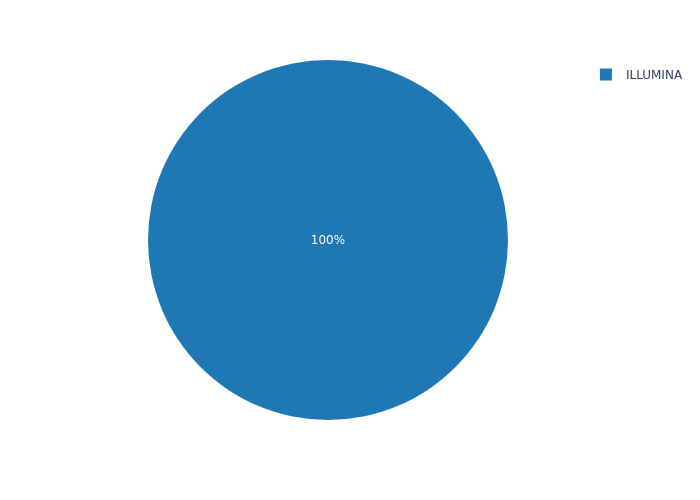
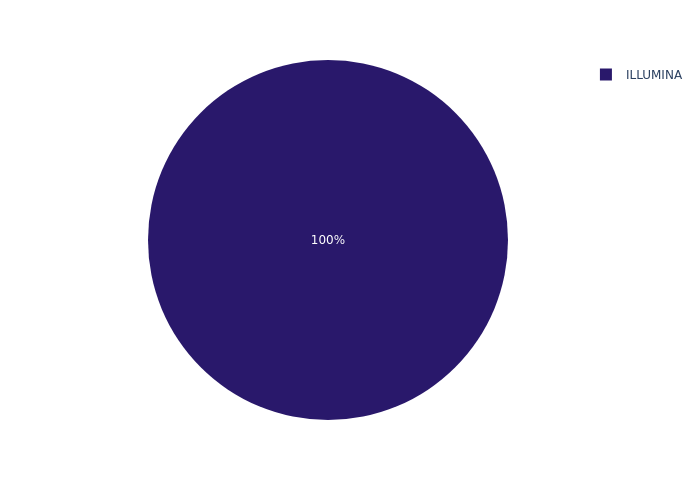
sara

Changed region(s): [[0.21, 0.12, 0.75, 0.84], [0.84, 0.12, 0.87, 0.18]]

diff --git a/report_generation_module.py b/report_generation_module.py
@@ -14,6 +14,7 @@ from geopy.exc import GeocoderTimedOut
 from geopy.geocoders import Nominatim
 from collections import Counter
 from pycountry_convert import country_alpha2_to_continent_code, country_name_to_country_alpha2
+from matplotlib import pyplot as plt
 
 
 def report_generation(user_session):
@@ -145,11 +146,11 @@ def IDs_number(e_df):
     return IDs_number
 
 
-def sample_number(user_session, e_df):
+def sample_number(user_session, e_df, color_palette):
     sample_number_series = e_df.groupby(['study_accession'])['run_accession'].count()
     sample_number_df = pd.DataFrame(sample_number_series).reset_index()
     sample_number_df.columns = ['Project', 'Number of samples']
-    fig = px.bar(sample_number_df, x="Project", y="Number of samples", color_discrete_sequence=px.colors.qualitative.Dark24).update_layout(yaxis_title="Number of samples") 
+    fig = px.bar(sample_number_df, x="Project", y="Number of samples", color_discrete_sequence=color_palette).update_layout(yaxis_title="Number of samples") 
     fig.write_image(os.path.join(user_session, "sample_number.png"))
 
 
@@ -200,7 +201,7 @@ def IDs_dates(user_session, e_df):
         pass
         
 
-def publication_title(user_session, p_df):
+def publication_title(user_session, p_df,color_palette):
     p_list_project = p_df.input_accession_id.values.tolist()
     p_list_title = p_df.title.values.tolist()
     d = {
@@ -212,45 +213,45 @@ def publication_title(user_session, p_df):
     df.to_excel(file_name)
 
 
-def scientific_name_pie(user_session, e_df):
+def scientific_name_pie(user_session, e_df, color_palette):
     col = ['scientific_name']
     if pd.Series(['scientific_name']).isin(e_df.columns).all():
         scientific_name_df = e_df['scientific_name'].value_counts()
         df = pd.DataFrame(scientific_name_df).reset_index()
         df.columns = ['Scientific name', 'Counts']
-        fig = px.pie(df, values='Counts', names='Scientific name', color_discrete_sequence=px.colors.qualitative.D3)
+        fig = px.pie(df, values='Counts', names='Scientific name', color_discrete_sequence=color_palette)
         fig.write_image(os.path.join(user_session, "scientific_name_pie.png"))
     else:
         pass
 
 
-def scientific_name_bar(user_session, e_df):
+def scientific_name_bar(user_session, e_df, color_palette):
     col = ['scientific_name']
     if pd.Series(['scientific_name']).isin(e_df.columns).all():
         scientific_name_IDs_df = e_df.groupby(['study_accession'])['scientific_name'].value_counts()
         df_bar = scientific_name_IDs_df.rename('count').reset_index()
         df_bar.columns = ['Project', 'Scientific name', 'Counts']
         fig = px.histogram(df_bar, x="Project", y="Counts",
-                color='Scientific name', color_discrete_sequence=px.colors.qualitative.D3, 
+                color='Scientific name', color_discrete_sequence=color_palette, 
                 height=400).update_layout(yaxis_title="Number of samples")
         fig.write_image(os.path.join(user_session, "scientific_name_bar.png"))
     else:
         pass
 
 
-def library_source(user_session, e_df):
+def library_source(user_session, e_df, color_palette):
     col = ['library_source']
     if pd.Series(['library_source']).isin(e_df.columns).all():
         library_source_df = e_df['library_source'].value_counts()
         df = pd.DataFrame(library_source_df).reset_index()
         df.columns = ['Library source', 'Counts']
-        fig = px.pie(df, values='Counts', names='Library source', color_discrete_sequence=px.colors.qualitative.D3)
+        fig = px.pie(df, values='Counts', names='Library source', color_discrete_sequence=color_palette)
         fig.write_image(os.path.join(user_session, "library_source_pie.png"))
     else:
         pass
 
 
-def library_source_bar(user_session, e_df):
+def library_source_bar(user_session, e_df, color_palette):
     col = ['library_source']
     if pd.Series(['library_source']).isin(e_df.columns).all():
         library_source_IDs_df = e_df.groupby(['study_accession'])['library_source'].value_counts()
@@ -258,26 +259,26 @@ def library_source_bar(user_session, e_df):
         df_bar.columns = ['Project', 'Library source', 'Counts']
         fig = px.histogram(df_bar, x="Project", y="Counts",
                 color='Library source',
-                color_discrete_sequence=px.colors.qualitative.D3,
+                color_discrete_sequence=color_palette,
                 height=400).update_layout(yaxis_title="Number of samples")
         fig.write_image(os.path.join(user_session, "library_source_bar.png"))
     else:
         pass
 
 
-def library_strategy_pie(user_session, e_df):
+def library_strategy_pie(user_session, e_df, color_palette):
     col = ['library_strategy']
     if pd.Series(['library_strategy']).isin(e_df.columns).all():
         library_strategy_df = e_df['library_strategy'].value_counts()
         df = pd.DataFrame(library_strategy_df).reset_index()
         df.columns = ['Library strategy', 'Counts']
-        fig = px.pie(df, values='Counts', names='Library strategy', color_discrete_sequence=px.colors.qualitative.D3)
+        fig = px.pie(df, values='Counts', names='Library strategy', color_discrete_sequence=color_palette)
         fig.write_image(os.path.join(user_session, "library_strategy_pie.png"))
     else:
         pass
 
 
-def library_strategy_bar(user_session, e_df):
+def library_strategy_bar(user_session, e_df, color_palette):
     col = ['library_strategy']
     if pd.Series(['library_strategy']).isin(e_df.columns).all():
         library_strategy_IDs_df = e_df.groupby(['study_accession'])['library_strategy'].value_counts()
@@ -285,26 +286,26 @@ def library_strategy_bar(user_session, e_df):
         df_bar.columns = ['Project', 'Library strategy', 'Counts']
         fig = px.histogram(df_bar, x="Project", y="Counts",
                 color='Library strategy',
-                color_discrete_sequence=px.colors.qualitative.D3,
+                color_discrete_sequence=color_palette,
                 height=400).update_layout(yaxis_title="Number of samples")
         fig.write_image(os.path.join(user_session, "library_strategy_bar.png"))
     else:
         pass
 
 
-def instrument_platform_pie(user_session, e_df):
+def instrument_platform_pie(user_session, e_df, color_palette):#, color_palette): #
     col = ['instrument_platform']
     if pd.Series(['instrument_platform']).isin(e_df.columns).all():
         instrument_platform_df = e_df['instrument_platform'].value_counts()
         df = pd.DataFrame(instrument_platform_df).reset_index()
         df.columns = ['Instrument platform', 'Counts']
-        fig = px.pie(df, values='Counts', names='Instrument platform', color_discrete_sequence=px.colors.qualitative.D3)
+        fig = px.pie(df, values='Counts', names='Instrument platform', color_discrete_sequence=color_palette) #
         fig.write_image(os.path.join(user_session, "instrument_platform_pie.png"))
     else:
         pass
 
 
-def instrument_platform_bar(user_session, e_df):
+def instrument_platform_bar(user_session, e_df, color_palette):
     col = ['instrument_platform']
     if pd.Series(['instrument_platform']).isin(e_df.columns).all():
         instrument_platform_IDs_df = e_df.groupby(['study_accession'])['instrument_platform'].value_counts()
@@ -312,26 +313,37 @@ def instrument_platform_bar(user_session, e_df):
         df_bar.columns = ['Project', 'Instrument platform', 'Counts']
         fig = px.histogram(df_bar, x="Project", y="Counts",
                 color='Instrument platform',
-                color_discrete_sequence=px.colors.qualitative.Dark24,
+                color_discrete_sequence=color_palette,
                 height=400).update_layout(yaxis_title="Number of samples")
         fig.write_image(os.path.join(user_session, "instrument_platform_bar.png"))
     else:
         pass
 
 
-def library_layout_pie(user_session, e_df):
+def library_layout_pie(user_session, e_df, color_palette): #QUI
+
+    # n_colors = 25
+    # colors = px.colors.sample_colorscale("turbo", [n/(n_colors -1) for n in range(n_colors)])
+    # fig = go.Figure()
+    # for i, c in enumerate(colors):
+    #     fig.add_bar(x=[i], y = [15], marker_color = c, showlegend = False, name=c)
+    #     print(i)
+    #     print(c)
+    
+
     col = ['library_layout']
     if pd.Series(['library_layout']).isin(e_df.columns).all():
         library_layout_df = e_df['library_layout'].value_counts()
         df = pd.DataFrame(library_layout_df).reset_index()
         df.columns = ['Library layout', 'Counts']
-        fig = px.pie(df, values='Counts', names='Library layout', color_discrete_sequence=px.colors.qualitative.Dark24)
-        fig.write_image(os.path.join(user_session, "library_layout_pie.png"))
+        fig = px.pie(df, values='Counts', names='Library layout', color_discrete_sequence=color_palette) 
+        fig.write_image(os.path.join(user_session, "library_layout_pie.png")) 
+
     else:
         pass
 
 
-def library_layout_bar(user_session, e_df):
+def library_layout_bar(user_session, e_df, color_palette):
     col = ['library_layout']
     if pd.Series(['library_layout']).isin(e_df.columns).all():
         library_layout_IDs_df = e_df.groupby(['study_accession'])['library_layout'].value_counts()
@@ -339,7 +351,7 @@ def library_layout_bar(user_session, e_df):
         df_bar.columns = ['Project', 'Library layout', 'Counts']
         fig = px.histogram(df_bar, x="Project", y="Counts",
                 color='Library layout',
-                color_discrete_sequence=px.colors.qualitative.Dark24,
+                color_discrete_sequence=color_palette,
                 height=400).update_layout(yaxis_title="Number of samples")
         fig.write_image(os.path.join(user_session, "library_layout_bar.png"))
     else:
@@ -382,13 +394,18 @@ def geography(user_session, p_df):
 
     #ATTENZIONE: FUNZIONA! >> DA CAMBIARE COLORI. BUBBLE PLOT
     fig = px.scatter_geo(country_df, locations="CODE", color = 'count', size="count", 
-        color_continuous_scale = px.colors.sequential.Plasma, opacity = 0.95)
+        color_continuous_scale = px.colors.sequential.haline, opacity = 0.95)
 
     fig.update_layout(
         title = 'Map of publications', title_x=0.5,
         title_font_size=25,
         title_font_family='Times New Roman',
-        showlegend = True,)
+        showlegend = True, 
+        coloraxis_colorbar=dict(title="Number of <br>publications", #start a new line
+        thicknessmode="pixels", thickness=20,
+        lenmode="pixels", len=250))
+
+    fig.update_coloraxes(colorbar_dtick=1) #only integers number separated by 1
 
     fig.update_geos(scope='world',
         visible=False,
@@ -400,15 +417,11 @@ def geography(user_session, p_df):
     fig.update_traces(marker=dict(
         line=dict(width=0)))
 
-    fig.update_layout(coloraxis_colorbar=dict(title="Number of publications",
-    thicknessmode="pixels", thickness=20,
-    lenmode="pixels", len=300,))
-
     fig.write_image(os.path.join(user_session, "world_map.png"))
 
 
 #PROJECT SIZE & BYTES
-def projects_bytes(user_session, e_df):
+def projects_bytes(user_session, e_df, color_palette):
     IDs =  e_df['study_accession'].unique().tolist()
     ids_list = []
     bytes_list = []
@@ -427,26 +440,65 @@ def projects_bytes(user_session, e_df):
     file_name = os.path.join(user_session,'Project_size&bytes.xlsx')
     df.to_excel(file_name)
 
-    fig = px.histogram(df, x="Project", y="Bytes", color_discrete_sequence=px.colors.qualitative.D3).update_layout(yaxis_title="Number of samples")
+    user_readable_bytes = []
+    for byte in bytes_list:
+        user_readable_byte = byte/1024/1024
+        user_readable_bytes.append(user_readable_byte)
+
+    df['User_bites']=user_readable_bytes
+
+    fig = px.histogram(df, x="Project", y="User_bites", color_discrete_sequence=color_palette)
+
+    
+    fig.update_layout(
+        title = 'Project size', title_x=0.5,
+        title_font_size=25,
+        title_font_family='Times New Roman',
+        yaxis_title="Bytes")
+    
+    
     fig.write_image(os.path.join(user_session, "projects_size&bytes_bar.png"))
 
+
+    #BUBBLE PLOT
+    fig = px.scatter(df, x='Project', y='User_bites', 
+        size='User_bites', color='User_bites', size_max=100,
+        color_continuous_scale = px.colors.sequential.haline, opacity = 0.95)
+    
+    fig.update_layout(
+        title = 'Size of project', title_x=0.5,
+        title_font_size=25,
+        title_font_family='Times New Roman',
+        yaxis_title="Megabyte",
+        showlegend = True, 
+        coloraxis_colorbar=dict(title="Megabyte",
+        thicknessmode="pixels", thickness=20,
+        lenmode="pixels", len=250))
+
+    fig.write_image(os.path.join(user_session, "projects_size&bytes_bubble.png"))
+    
 
 
 #report
 def report_ep(user_session, e_df, p_df):
+    
+    # n_colors = 25
+    # colors = px.colors.sample_colorscale("turbo", [n/(n_colors -1) for n in range(n_colors)])
+    color_palette =['rgb(41, 24, 107)', 'rgb(204, 223, 109)', 'rgb(145, 209, 96)', 'rgb(62, 153, 134)', 'rgb(18, 92, 143)']
     IDs_number(e_df)
-    sample_number(user_session, e_df)
+    sample_number(user_session, e_df, color_palette)
     IDs_dates(user_session, e_df)
-    publication_title(user_session, p_df)
-    scientific_name_pie(user_session, e_df)
-    scientific_name_bar(user_session, e_df)
-    library_source(user_session, e_df)
-    library_source_bar(user_session, e_df)
-    library_strategy_pie(user_session, e_df)
-    library_strategy_bar(user_session, e_df)
-    instrument_platform_pie(user_session, e_df)
-    instrument_platform_bar(user_session, e_df)
-    library_layout_pie(user_session, e_df)
-    library_layout_bar(user_session, e_df)
+    publication_title(user_session, p_df, color_palette)
+    scientific_name_pie(user_session, e_df, color_palette)
+    scientific_name_bar(user_session, e_df, color_palette)
+    library_source(user_session, e_df, color_palette)
+    library_source_bar(user_session, e_df, color_palette)
+    library_strategy_pie(user_session, e_df, color_palette)
+    library_strategy_bar(user_session, e_df, color_palette)
+    instrument_platform_pie(user_session, e_df, color_palette)
+    instrument_platform_bar(user_session, e_df, color_palette)
+    library_layout_pie(user_session, e_df, color_palette)
+    library_layout_bar(user_session, e_df, color_palette)
     geography(user_session, p_df)
-    projects_bytes(user_session, e_df)
+    projects_bytes(user_session, e_df, color_palette)
+
